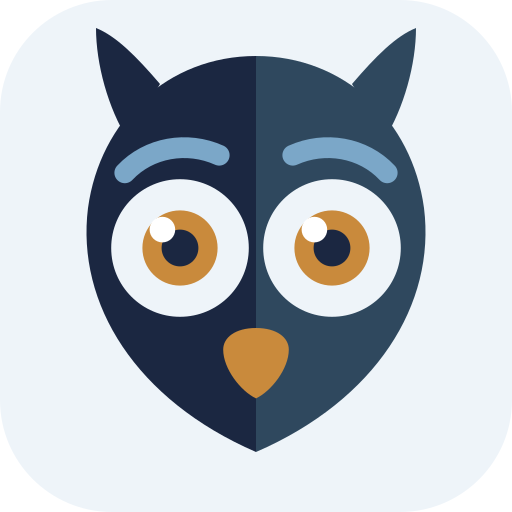
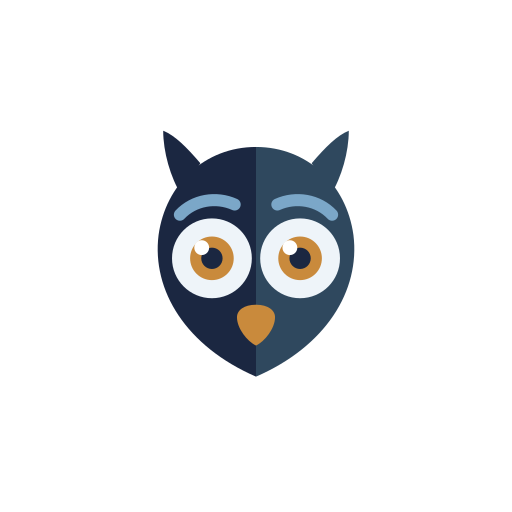
docs(brand): inset the marks on white tiles
Tiles previously bled the mark to the edges over a pale tint of its own hue,
which at avatar size read as a coloured square with eyes and a chest floating
on it rather than as an owl. The mark is now inset at 0.58 on a white ground,
which puts ground back around the silhouette.

0.58 is Microsoft's constraint, not a taste call: the Teams colour icon is
corner-masked at runtime and wants the brand mark inside a 120x120 safe area
of the 192x192 canvas, balanced around 96x96. The tallest mark lands 98px.

Also bumps the Teams app version to 1.1.1, since the admin centre rejects a
re-upload without a new version number even for an icon-only change, and
documents that in the Microsoft setup runbook.

diff --git a/docs/brand/build_assets.py b/docs/brand/build_assets.py
@@ -1,7 +1,7 @@
 # -*- coding: utf-8 -*-
 """Build the full asset set for the four chosen Sentinel marks.
 
-Per mark:  mark.svg (transparent) | tile.svg (on its pale tint)
+Per mark:  mark.svg (transparent) | tile.svg (inset on white)
            PNGs at 16..1024 transparent | tile-192.png (Teams color icon)
            outline-32.png (Teams outline icon: white silhouette, eyes knocked out)
            sentry-256.png (Sentry small icon: black silhouette, face knocked out)
@@ -25,8 +25,7 @@ PER = {n: (sid, shape, col) for sid, n, shape, col, _ in
        [(s, n.lower(), sh, c, b) for s, n, sh, c, b in g.PERCH]}
 PER["shaded"] = ("p-shaded", "base",
                  dict(belly="", disc="#eef4f9", beak="#ddb377", feet="#c98a3c", cat="#ffffff"))
-TINT = {"curious-cream": "#faf4ec", "curious-frost": "#eef4f9",
-        "perch-cream": "#faf4ec", "perch-shaded": "#eef4f9"}
+TILE_BG = "#ffffff"
 
 def sym_body(sid, kind, shape, col):
     fn = g.curious_sym if kind == "curious" else g.perch_sym
@@ -58,7 +57,21 @@ def silhouette(kind, shape):
 # black and transparent pixels and the mark has to clear the circle. The marks reach
 # 32.25 units from center in the 64-unit frame, so 0.88 leaves ~3.5 units of margin.
 SENTRY_FIT = 0.88
+
+# Tiles inset the mark rather than bleeding it to the edges. A full-bleed mark
+# fills an avatar with the bird's dark body, so at the size Teams actually renders
+# it the tile reads as a navy ground with eyes and a belly floating on it instead
+# of as an owl. Insetting puts the tile's own ground back around the mark, which
+# is the read the README header gets for free from the page behind it.
+#
+# Microsoft masks the color icon's corners at runtime and asks for the brand mark
+# inside a 120x120 safe area of the 192x192 canvas, balanced around 96x96. At 0.58
+# the tallest of the four marks lands 98px tall in the 192 tile, which clears the
+# safe area and sits on the balance target.
+TILE_FIT = 0.58
+
 MARK_CY = 30.5  # measured vertical center of the marks, which sit high in the frame
+
 
 def sentry_mask(kind, shape):
     """Black silhouette with the eyes and beak knocked out, inset for a circular crop.
@@ -85,6 +98,12 @@ def sentry_mask(kind, shape):
             '  <rect width="64" height="64" fill="#000000" mask="url(#k)"/>\n</svg>\n')
 
 
+def inset(body):
+    """The mark centered in the 64-unit frame at TILE_FIT, so ground surrounds it."""
+    return (f'<g transform="translate(32,32) scale({TILE_FIT}) '
+            f'translate(-32,{-MARK_CY})">{body}</g>')
+
+
 def run(*a):
     subprocess.run(a, check=True)
 
@@ -95,19 +114,20 @@ for name, (kind, key) in CHOSEN.items():
     shutil.rmtree(d, ignore_errors=True)  # per mark, so assets/README.md survives a rebuild
     os.makedirs(d, exist_ok=True)
     body = sym_body(sid, kind, shape, col)
-    tint = TINT[name]
 
     open(f"{d}/{name}.svg", "w").write(wrap(body, f"Sentinel — {name}"))
+    # Square corners on purpose: Teams and GitHub both round the tile themselves,
+    # and Microsoft calls a pre-rounded upload out by name.
     open(f"{d}/{name}-tile.svg", "w").write(wrap(
-        body, f"Sentinel — {name} tile",
-        extra=f'  <rect width="64" height="64" rx="14" fill="{tint}"/>\n'))
+        inset(body), f"Sentinel — {name} tile",
+        extra=f'  <rect width="64" height="64" fill="{TILE_BG}"/>\n'))
     open(f"{d}/{name}-outline.svg", "w").write(silhouette(kind, shape))
     open(f"{d}/{name}-sentry.svg", "w").write(sentry_mask(kind, shape))
 
     for px in (16, 32, 48, 64, 128, 256, 512, 1024):
         run("rsvg-convert", "-w", str(px), "-h", str(px),
             f"{d}/{name}.svg", "-o", f"{d}/{name}-{px}.png")
-    run("rsvg-convert", "-w", "192", "-h", "192", "-b", tint,
+    run("rsvg-convert", "-w", "192", "-h", "192", "-b", TILE_BG,
         f"{d}/{name}-tile.svg", "-o", f"{d}/{name}-tile-192.png")
     run("rsvg-convert", "-w", "512", "-h", "512",
         f"{d}/{name}-tile.svg", "-o", f"{d}/{name}-tile-512.png")

diff --git a/docs/brand/header/README.md b/docs/brand/header/README.md
@@ -67,8 +67,17 @@ lockup, and it breaks both of this directory's conventions on purpose.
 **It has an opaque ground.** Everything else here is transparent, which is right
 for a README that already has a background. A social card does not: it is
 unfurled by Slack, X, LinkedIn and Discord, each compositing transparency
-against its own backdrop, so the light lockup's navy wordmark would disappear
-on a dark client. The card carries brand navy `#1b2741` and the dark lockup.
+against its own backdrop, so a transparent card's wordmark would disappear on
+whichever clients happen to disagree with it. The card carries an opaque white
+ground and the light lockup.
+
+The ground has to be white rather than brand navy, and that is not a taste
+call. The owl's near half is filled `#1b2741`, brand navy exactly, so on a navy
+card that half and its ear tuft are not low-contrast but literally the same
+pixels as the background: the bird renders as a lopsided offcut with the eyes
+and chest floating free. The dark lockup only recolors the wordmark, wire and
+moon, so there is no dark-ground owl to reach for. GitHub's own dark mode gets
+away with the same lockup because `#0d1117` is darker than the owl.
 
 **It is 2:1.** GitHub wants 1280x640 and letterboxes anything else against a
 background it picks, not one we control. No lockup aspect here is close: wide is
@@ -76,16 +85,18 @@ background it picks, not one we control. No lockup aspect here is close: wide is
 wire runs edge to edge rather than stopping inside a padded box, and the moon
 survives, which the compact crop has nowhere to put.
 
-Rebuild it from the wide dark raster, which needs no font because the wordmark
+Rebuild it from the wide light raster, which needs no font because the wordmark
 is already outlined:
 
 ```bash
-magick -size 1280x640 xc:'#1b2741' \
-  \( docs/brand/header/sentinel-header-dark-2x.png -resize 1280x \) \
+magick -size 1280x640 xc:'#ffffff' \
+  \( docs/brand/header/sentinel-header-light-2x.png -resize 1280x \) \
   -gravity center -composite -strip docs/brand/header/sentinel-social-card.png
 ```
 
-GitHub caps the upload at 1MB. This lands around 130KB.
+GitHub caps the upload at 1MB. This lands around 120KB. Changing the file does
+not change what GitHub serves: re-upload it under Settings, General, Social
+preview.
 
 ## Regenerating
 

diff --git a/docs/brand/assets/README.md b/docs/brand/assets/README.md
@@ -18,15 +18,29 @@ chest. No silver anywhere.
 | File | Use |
 |---|---|
 | `<name>.svg` | The mark on a transparent ground. The source of truth; scale this, do not upscale a PNG. |
-| `<name>-tile.svg` | The mark on a rounded tile in its own pale hue. Use wherever the background is dark or unknown. |
+| `<name>-tile.svg` | The mark inset on a square white tile. Use wherever the background is dark or unknown. |
 | `<name>-outline.svg` | White silhouette with the eyes knocked out. Monochrome contexts only. |
 | `<name>-{16..1024}.png` | Transparent raster at 16, 32, 48, 64, 128, 256, 512, 1024. |
 | `<name>-tile-192.png` | Opaque tile at 192px. This is the size Teams wants for a color icon. |
-| `<name>-tile-512.png` | Opaque tile at 512px, for GitHub org avatars and social cards. |
+| `<name>-tile-512.png` | Opaque tile at 512px, for GitHub org avatars and anywhere else an avatar is wanted. |
 | `<name>-outline-32.png` | White silhouette at 32px, transparent. This is the size Teams wants for an outline icon. |
 | `<name>-sentry.svg` | Black silhouette with the face knocked out, inset to clear a circular crop. |
 | `<name>-sentry-256.png` | Black silhouette at 256px, transparent. This is what Sentry's small icon upload accepts. |
 | `<name>-favicon.ico` | Multi-resolution icon bundling 16, 32, and 48. |
+
+## Why the tiles inset the mark
+
+A tile that bleeds the mark to its edges is mostly bird, and the bird is mostly
+navy, so at the size an avatar is actually rendered the tile reads as a navy
+square with two eyes and a chest floating on it. The owl stops being an owl.
+Insetting it to 58% of the frame puts white back around the silhouette, which is
+the read the README header gets for free from the page behind it.
+
+That number is also what Microsoft asks for. It masks the color icon's corners
+itself and wants the brand mark inside a 120x120 safe area of the 192x192
+canvas, balanced around 96x96; the tallest of the four marks lands 98px tall.
+The tiles are square for the same reason: a pre-rounded upload is something the
+Teams icon guidance calls out by name, because the client rounds it again.
 
 ## Wiring one into the Teams app
 

diff --git a/docs/SETUP-MICROSOFT.md b/docs/SETUP-MICROSOFT.md
@@ -71,13 +71,21 @@ as they are; they were captured from the live Sentry integration.
 Nothing to do. Both icons are committed in `teams-app/`, generated from the
 Sentinel mark in `docs/brand/assets/perch-cream`:
 
-- `color.png` — 192x192, opaque, the app tile
+- `color.png` — 192x192, opaque, square, the owl inset on white
 - `outline.png` — 32x32, transparent background, white glyph only
 
 Teams renders the outline icon on the manifest's `accentColor`, which is set to
 brand navy `#1b2741`. `teams-app/build-package.sh` refuses to build without both
 files. To swap in a different mark, copy its `-tile-192.png` over `color.png` and
 its `-outline-32.png` over `outline.png`; see `docs/brand/assets/README.md`.
+
+Editing either icon does not change what Teams shows. The icons ship inside the
+app package, so a change means rebuilding `sentinel.zip` in step 7 and updating
+the app in the Teams admin center (Manage apps, Sentinel, Update). Bump
+`version` in `teams-app/manifest.json` first, or the admin center rejects the
+upload with "This update needs a new app version number". It compares against
+the published version, not against the package contents, so even an icon-only
+change needs the bump.
 
 ## 7. Build and install the Teams app
 
